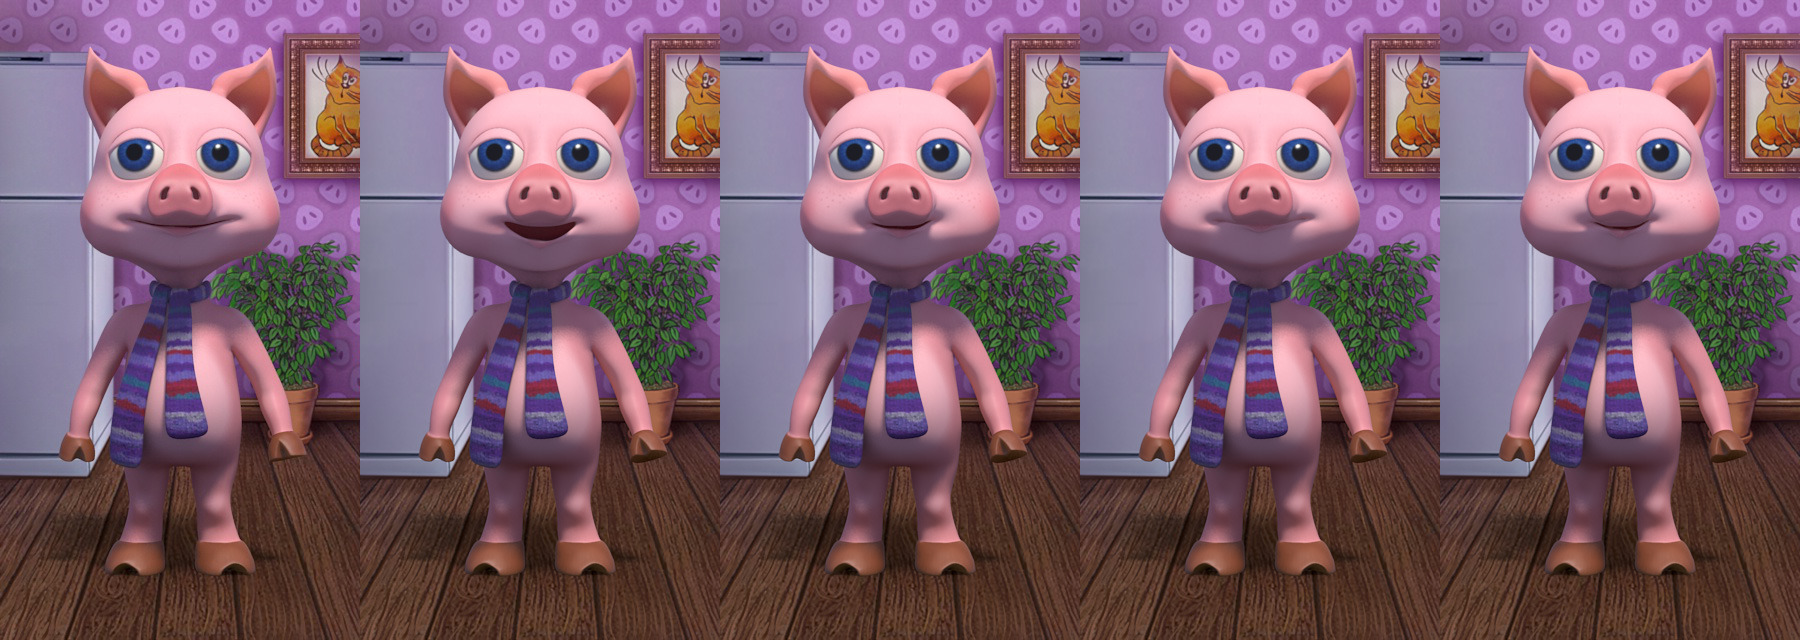
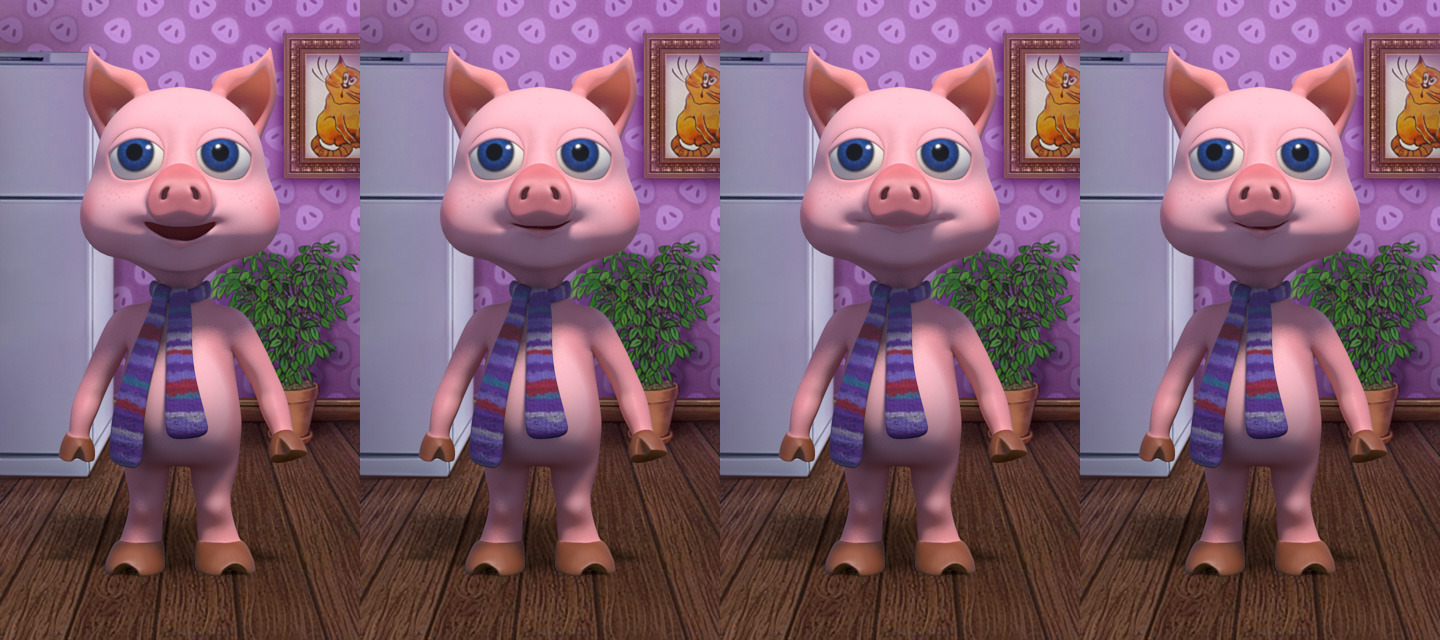
1. Fix attemps to access null objects in certain cases; 2. New dialogs & buttons; 3. Remove stop frame from speech animation; 4. Cleanup.

diff --git a/iOS/pocketpiglet/qml/pocketpiglet/Core/PigletPuzzlePage.qml b/iOS/pocketpiglet/qml/pocketpiglet/Core/PigletPuzzlePage.qml
@@ -40,7 +40,7 @@ Item {
     }
 
     function screenOrientationUpdated(orientation) {
-        if (typeof(pigletPuzzlePage) !== "undefined") {
+        if (typeof(pigletPuzzlePage) !== "undefined" && pigletPuzzlePage !== null) {
             if (orientation === Qt.LandscapeOrientation) {
                 screenRotation = 90;
             } else if (orientation === Qt.InvertedLandscapeOrientation) {
@@ -685,35 +685,16 @@ Item {
         }
 
         Image {
-            id:             refreshButtonImage
-            anchors.bottom: parent.bottom
-            anchors.left:   parent.left
-            width:          48
-            height:         48
-            z:              10
-            source:         "qrc:/resources/images/refresh.png"
-
-            MouseArea {
-                id:           refreshButtonMouseArea
-                anchors.fill: parent
-
-                onClicked: {
-                    gameBeginTimer.start();
-                }
-            }
-        }
-
-        Image {
-            id:             exitButtonImage
+            id:             backButtonImage
             anchors.bottom: parent.bottom
             anchors.right:  parent.right
-            width:          48
-            height:         48
+            width:          64
+            height:         64
             z:              10
-            source:         "qrc:/resources/images/exit.png"
+            source:         "qrc:/resources/images/back.png"
 
             MouseArea {
-                id:           exitButtonMouseArea
+                id:           backButtonMouseArea
                 anchors.fill: parent
 
                 onClicked: {
@@ -827,34 +808,16 @@ Item {
                 }
 
                 Image {
-                    id:             complexitySelectionHelpButtonImage
-                    anchors.bottom: parent.bottom
-                    anchors.left:   parent.left
-                    width:          48
-                    height:         48
-                    z:              51
-                    source:         "qrc:/resources/images/help.png"
-
-                    MouseArea {
-                        id:           complexitySelectionHelpButtonMouseArea
-                        anchors.fill: parent
-
-                        onClicked: {
-                        }
-                    }
-                }
-
-                Image {
-                    id:             complexitySelectionExitButtonImage
+                    id:             complexitySelectionBackButtonImage
                     anchors.bottom: parent.bottom
                     anchors.right:  parent.right
-                    width:          48
-                    height:         48
+                    width:          64
+                    height:         64
                     z:              51
-                    source:         "qrc:/resources/images/exit.png"
+                    source:         "qrc:/resources/images/back.png"
 
                     MouseArea {
-                        id:           complexitySelectionExitButtonMouseArea
+                        id:           complexitySelectionBackButtonMouseArea
                         anchors.fill: parent
 
                         onClicked: {
@@ -961,35 +924,16 @@ Item {
                 }
 
                 Image {
-                    id:             puzzleSelectionHelpButtonImage
-                    anchors.bottom: parent.bottom
-                    anchors.left:   parent.left
-                    width:          48
-                    height:         48
-                    z:              51
-                    source:         "qrc:/resources/images/help.png"
-
-                    MouseArea {
-                        id:           puzzleSelectionHelpButtonMouseArea
-                        anchors.fill: parent
-
-                        onClicked: {
-                            // helpQueryDialog.open();
-                        }
-                    }
-                }
-
-                Image {
-                    id:             puzzleSelectionExitButtonImage
+                    id:             puzzleSelectionBackButtonImage
                     anchors.bottom: parent.bottom
                     anchors.right:  parent.right
-                    width:          48
-                    height:         48
+                    width:          64
+                    height:         64
                     z:              51
-                    source:         "qrc:/resources/images/exit.png"
+                    source:         "qrc:/resources/images/back.png"
 
                     MouseArea {
-                        id:           puzzleSelectionExitButtonMouseArea
+                        id:           puzzleSelectionBackButtonMouseArea
                         anchors.fill: parent
 
                         onClicked: {

diff --git a/iOS/pocketpiglet/qml/pocketpiglet/Core/Dialog/QueryDialog.qml b/iOS/pocketpiglet/qml/pocketpiglet/Core/Dialog/QueryDialog.qml
@@ -1,5 +1,4 @@
 import QtQuick 2.9
-import QtQuick.Controls 2.2
 
 MouseArea {
     id:               dialogScreenLockMouseArea
@@ -27,32 +26,40 @@ MouseArea {
         closed();
     }
 
-    Rectangle {
+    Image {
+        id:               dialogImage
         anchors.centerIn: parent
-        width:            parent.width < parent.height ? parent.width * 0.85 : parent.height * 0.85
-        height:           parent.width < parent.height ? parent.width * 0.85 : parent.height * 0.85
-        color:            "white"
+        width:            parent.width < parent.height ? parent.width : parent.height
+        fillMode:         Image.PreserveAspectFit
+        source:           "qrc:/resources/images/dialog/dialog.png"
 
         Text {
-            anchors.top:         parent.top
-            anchors.bottom:      dialogButtonRow.top
-            anchors.left:        parent.left
-            anchors.right:       parent.right
-            color:               "black"
-            horizontalAlignment: Text.AlignHCenter
-            verticalAlignment:   Text.AlignVCenter
-            wrapMode:            Text.Wrap
-            text:                dialogScreenLockMouseArea.text
+            anchors.fill:         parent
+            anchors.margins:      16
+            anchors.bottomMargin: 40
+            clip:                 true
+            color:                "black"
+            horizontalAlignment:  Text.AlignHCenter
+            verticalAlignment:    Text.AlignVCenter
+            wrapMode:             Text.Wrap
+            text:                 dialogScreenLockMouseArea.text
         }
+    }
 
-        Row {
-            id:                       dialogButtonRow
-            anchors.bottom:           parent.bottom
-            anchors.horizontalCenter: parent.horizontalCenter
-            spacing:                  16
+    Row {
+        anchors.horizontalCenter: dialogImage.horizontalCenter
+        anchors.verticalCenter:   dialogImage.bottom
+        spacing:                  dialogImage.width - yesButtonImage.width * 2 - noButtonImage.width * 2
 
-            Button {
-                text: "Yes"
+        Image {
+            id:     yesButtonImage
+            width:  64
+            height: 64
+            z:      dialogImage.z + 1
+            source: "qrc:/resources/images/dialog/yes.png"
+
+            MouseArea {
+                anchors.fill: parent
 
                 onClicked: {
                     dialogScreenLockMouseArea.visible = false;
@@ -61,9 +68,17 @@ MouseArea {
                     dialogScreenLockMouseArea.closed();
                 }
             }
+        }
 
-            Button {
-                text: "No"
+        Image {
+            id:     noButtonImage
+            width:  64
+            height: 64
+            z:      dialogImage.z + 1
+            source: "qrc:/resources/images/dialog/no.png"
+
+            MouseArea {
+                anchors.fill: parent
 
                 onClicked: {
                     dialogScreenLockMouseArea.visible = false;

diff --git a/iOS/pocketpiglet/qml/pocketpiglet/Core/PigletFeedPage.qml b/iOS/pocketpiglet/qml/pocketpiglet/Core/PigletFeedPage.qml
@@ -65,7 +65,7 @@ Item {
     }
 
     function screenOrientationUpdated(orientation) {
-        if (typeof(pigletFeedPage) !== "undefined") {
+        if (typeof(pigletFeedPage) !== "undefined" && pigletFeedPage !== null) {
             if (orientation === Qt.LandscapeOrientation) {
                 screenRotation = 90;
             } else if (orientation === Qt.InvertedLandscapeOrientation) {
@@ -176,16 +176,16 @@ Item {
         }
 
         Image {
-            id:             exitButtonImage
+            id:             backButtonImage
             anchors.bottom: parent.bottom
             anchors.right:  parent.right
-            width:          48
-            height:         48
+            width:          64
+            height:         64
             z:              10
-            source:         "qrc:/resources/images/exit.png"
+            source:         "qrc:/resources/images/back.png"
 
             MouseArea {
-                id:           exitButtonMouseArea
+                id:           backButtonMouseArea
                 anchors.fill: parent
 
                 onClicked: {
@@ -299,35 +299,16 @@ Item {
                 }
 
                 Image {
-                    id:             complexitySelectionHelpButtonImage
-                    anchors.bottom: parent.bottom
-                    anchors.left:   parent.left
-                    width:          48
-                    height:         48
-                    z:              21
-                    source:         "qrc:/resources/images/help.png"
-
-                    MouseArea {
-                        id:           complexitySelectionHelpButtonMouseArea
-                        anchors.fill: parent
-
-                        onClicked: {
-                            // helpMessageDialog.open();
-                        }
-                    }
-                }
-
-                Image {
-                    id:             complexitySelectionExitButtonImage
+                    id:             complexitySelectionBackButtonImage
                     anchors.bottom: parent.bottom
                     anchors.right:  parent.right
-                    width:          48
-                    height:         48
+                    width:          64
+                    height:         64
                     z:              21
-                    source:         "qrc:/resources/images/exit.png"
+                    source:         "qrc:/resources/images/back.png"
 
                     MouseArea {
-                        id:           complexitySelectionExitButtonMouseArea
+                        id:           complexitySelectionBackButtonMouseArea
                         anchors.fill: parent
 
                         onClicked: {

diff --git a/iOS/pocketpiglet/qml/pocketpiglet/Core/Dialog/NotificationDialog.qml b/iOS/pocketpiglet/qml/pocketpiglet/Core/Dialog/NotificationDialog.qml
@@ -22,14 +22,16 @@ MouseArea {
         closed();
     }
 
-    Rectangle {
+    Image {
         anchors.centerIn: parent
-        width:            parent.width < parent.height ? parent.width * 0.85 : parent.height * 0.85
-        height:           parent.width < parent.height ? parent.width * 0.85 : parent.height * 0.85
-        color:            "white"
+        width:            parent.width < parent.height ? parent.width : parent.height
+        fillMode:         Image.PreserveAspectFit
+        source:           "qrc:/resources/images/dialog/dialog.png"
 
         Text {
             anchors.fill:        parent
+            anchors.margins:     16
+            clip:                true
             color:               "black"
             horizontalAlignment: Text.AlignHCenter
             verticalAlignment:   Text.AlignVCenter

diff --git a/iOS/pocketpiglet/qml/pocketpiglet/Core/PigletWashPage.qml b/iOS/pocketpiglet/qml/pocketpiglet/Core/PigletWashPage.qml
@@ -302,16 +302,16 @@ Item {
         }
 
         Image {
-            id:             exitButtonImage
+            id:             backButtonImage
             anchors.bottom: parent.bottom
             anchors.right:  parent.right
-            width:          48
-            height:         48
+            width:          64
+            height:         64
             z:              10
-            source:         "qrc:/resources/images/exit.png"
+            source:         "qrc:/resources/images/back.png"
 
             MouseArea {
-                id:           exitButtonMouseArea
+                id:           backButtonMouseArea
                 anchors.fill: parent
 
                 onClicked: {

diff --git a/iOS/pocketpiglet/qml/pocketpiglet/Core/PigletPage.qml b/iOS/pocketpiglet/qml/pocketpiglet/Core/PigletPage.qml
@@ -459,7 +459,7 @@ Item {
                 z:            pigletIdleImage.z - 1
                 running:      false
                 source:       "qrc:/resources/animations/piglet/piglet_speech.jpg"
-                frameCount:   5
+                frameCount:   4
                 frameWidth:   360
                 frameHeight:  640
                 frameX:       0

diff --git a/iOS/pocketpiglet/qml/pocketpiglet/Core/PigletWash/Bubble.qml b/iOS/pocketpiglet/qml/pocketpiglet/Core/PigletWash/Bubble.qml
@@ -13,7 +13,7 @@ Rectangle {
     signal bubbleDestroyed()
 
     function destroyBubble() {
-        if (typeof(bubble) !== "undefined") {
+        if (typeof(bubble) !== "undefined" && bubble !== null) {
             if (valid) {
                 valid = false;
 
